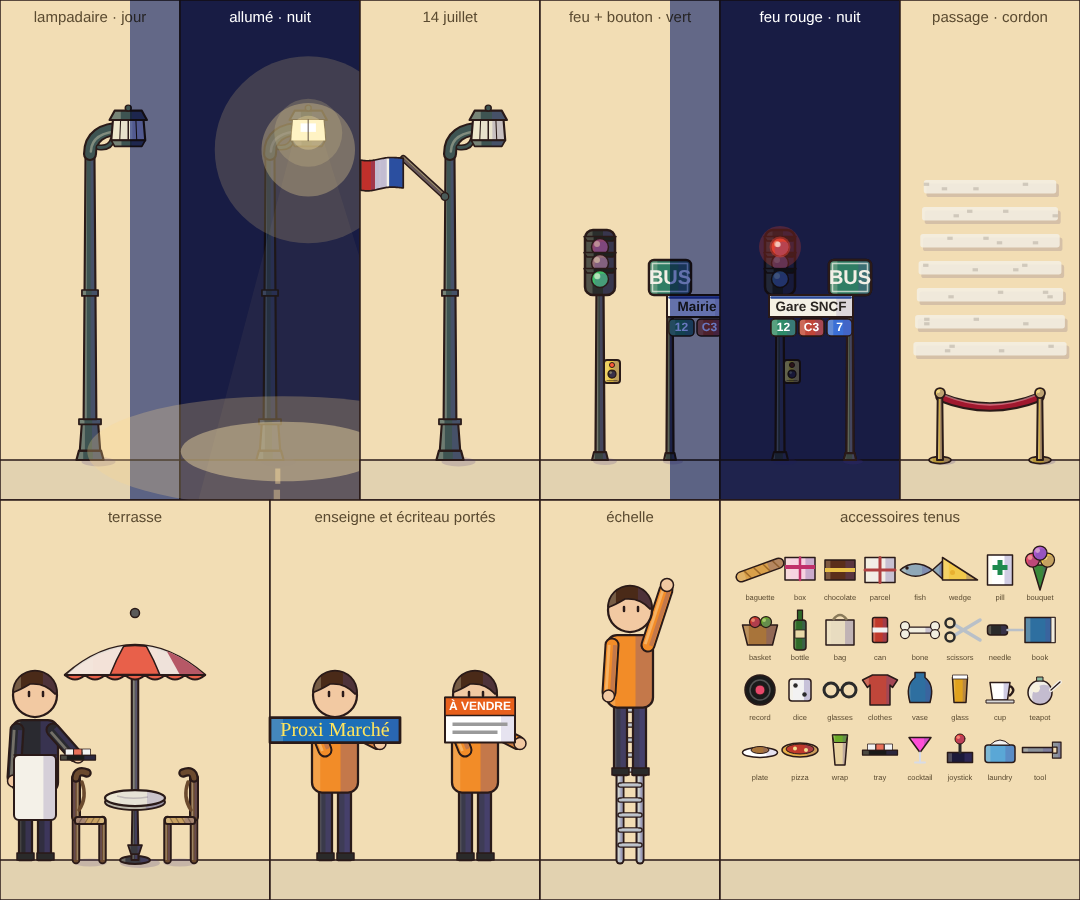
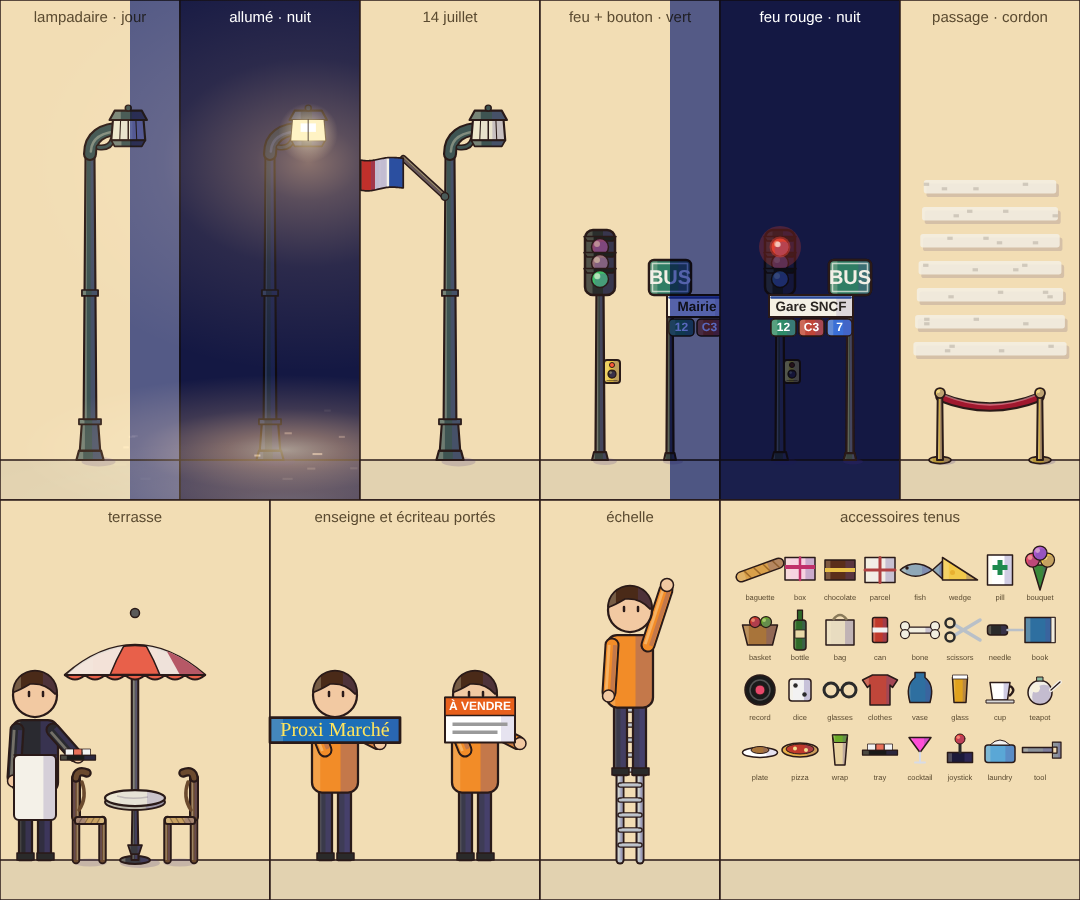
docs(bibliotheque): maquette G5 — première retouche de la lumière de nuit (Fable)
Claude-Session: https://claude.ai/code/session_013ZuXsaoNr127mvw7YX8a2o

diff --git a/docs/superpowers/maquettes/g5-fetes/index.html b/docs/superpowers/maquettes/g5-fetes/index.html
@@ -18,6 +18,9 @@ canvas{display:block;border-radius:6px;box-shadow:0 2px 10px #0003;background:#d
 <h3>3 · Zoom ×4 <span class="tag">jour puis nuit, 270 px de rue</span></h3>
 <canvas id="zoom-day"></canvas><br>
 <canvas id="zoom-night"></canvas>
+<p class="leg">Lumière de nuit : après le bleu nuit (multiply), chaque lumière est <b>ajoutée</b> en mode <code>screen</code> par des dégradés radiaux doux (cœur ambré d'incandescence, bord fondu) : halo du mur autour de la lanterne, flaque en perspective au pied du mât (trottoir puis chaussée), étincelles sur les joints des dalles et des pavés, bloom serré du verre. Les acteurs proches reçoivent un rehaut chaud du côté de la lampe et projettent une ombre portée à l'opposé. Vitrines et fenêtres débordent doucement sur le mur et le trottoir.</p>
+<h3>3 bis · Nuit de pluie <span class="tag">×4 · cône diffus · reflets étirés et ondulés sur les pavés mouillés · pas de feu d'artifice</span><span class="anim">animé</span></h3>
+<canvas id="night-rain"></canvas>
 
 <h3>4 · Planche mobilier de rue <span class="tag">×5 · lampadaire éteint / allumé / avec drapeau · feu et boîtier · arrêt de bus · passage · terrasse · cordon · enseigne portée · écriteau · échelle · accessoires tenus</span></h3>
 <canvas id="board-street"></canvas>
@@ -162,7 +165,6 @@ function lamp(ctx,{lit=false,pass='base',flag=false,flagT=0}={}){
  }
  if(lit&&pass==='lit'){
   // halo centré sur la lanterne (9, −77) : ghibli-night y pose déjà sa flaque ; ici seulement le verre et l'auréole proche
-  halo(ctx,9,-77,8,'#FFE6A0',0.32);
   P(ctx,[[5.4,-80],[12.6,-80],[13,-75.2],[5,-75.2]],'#FFF3C4',{lw:0,sh:0,li:0});
   ctx.fillStyle='#FFFFFF';ctx.fillRect(7.2,-79.2,3.6,2);
   L(ctx,9,-80,9,-75.2,'rgba(42,26,24,0.5)',0.35);
@@ -549,7 +551,7 @@ function santa(ctx,{landed=false,lit=true,t=0,anim=true,aboard=true,pass='base'}
   // lanterne accrochée à l'avant
   tube(ctx,11,-9,11,-12.4,0.6,IRON,{lw:0.25});P(ctx,[[9.6,-12.6],[12.4,-12.6],[12.2,-9.4],[9.8,-9.4]],lit?'#FFF3B0':'#E8E2CC',{lw:0.4,sh:lit?0:0.2,li:lit?0:0.3});R(ctx,9.4,-13.1,3.2,0.7,IRON,{lw:0.3,sh:0,li:0.2});
  }
- if(pass==='lit'&&lit){halo(ctx,11,-11,3.2,'#FFE08A',0.5);P(ctx,[[9.6,-12.6],[12.4,-12.6],[12.2,-9.4],[9.8,-9.4]],'#FFF3B0',{lw:0,sh:0,li:0});ctx.fillStyle='#FFFFFF';ctx.fillRect(10.3,-12,1.4,1.4);
+ if(pass==='lit'&&lit){ctx.save();ctx.globalCompositeOperation='screen';ctx.fillStyle=grad(ctx,11,-11,0,6,[[0,AMBER_CORE,0.8],[0.3,AMBER,0.4],[1,AMBER,0]]);ctx.beginPath();ctx.arc(11,-11,6,0,TAU);ctx.fill();ctx.restore();P(ctx,[[9.6,-12.6],[12.4,-12.6],[12.2,-9.4],[9.8,-9.4]],'#FFF3B0',{lw:0,sh:0,li:0});ctx.fillStyle='#FFFFFF';ctx.fillRect(10.3,-12,1.4,1.4);
   if(!landed)trail(ctx,t,anim,true);team.forEach(([x,y,lead])=>{if(lead){halo(ctx,x+11.4,y-4.4,3,'#FF3B3B',0.5);ball(ctx,x+11.4,y-4.4,1.1,'#FF5B5B',0)}})}
  ctx.restore()}
 // Traînée scintillante (sparkle : cercles à (−30,−9),(−40,−7),(−51,−10),(−62,−8),(−72,−9,5), clignotement 0,6..1,1 s) : étoiles et poussière d'or.
@@ -735,7 +737,7 @@ function dog(ctx,{seed=1,t=0,anim=true,leashTo=null,breed=null}={}){const rng=mu
 <script>
 // ───────────────────────── Scènes ─────────────────────────
 const Q=new URLSearchParams(location.search),FIXED_T=Q.has('t')?Number(Q.get('t')):null,ONLY=Q.get('only');
-const NIGHT_MUL='#6878C0';
+const NIGHT_MUL='#5868BE';
 function nightFilter(ctx,W,H){ctx.save();ctx.globalCompositeOperation='multiply';ctx.fillStyle=NIGHT_MUL;ctx.fillRect(-10,-10,W+20,H+20);ctx.restore()}
 function mk(id,W,H,s,cssW=1080){const c=document.getElementById(id);c.width=Math.round(W*s);c.height=Math.round(H*s);c.style.width=cssW+'px';const ctx=c.getContext('2d');ctx.scale(s,s);return ctx}
 const ANIMS=[];function anim(id,W,H,s,draw,cssW){const ctx=mk(id,W,H,s,cssW);ANIMS.push({id,ctx,W,H,draw});draw(ctx,FIXED_T??0)}
@@ -772,64 +774,124 @@ function streetBackdrop(ctx,{night=false,seed=7,behind=null}={}){const{W,H,G,CUR
  R(ctx,0,FAR,W,H-FAR,'#D8C8A8',{lw:0.5,sh:0,li:0});ctx.fillStyle='rgba(70,50,130,0.18)';ctx.fillRect(0,FAR,W,1.5);
  return items;
  function h2(h){return h}}
-// Lumière nocturne des lampadaires (reproduit GhibliNightLight, déjà livré : flaque, halo, reflets) : lanterne à (9, −77) × k.
-function nightPool(ctx,x,curb,k,u=1){const gx=x+9*k,gy=curb-77*k;ctx.fillStyle='rgba(255,220,140,0.18)';ctx.beginPath();ctx.arc(gx,gy+4*u,22*u,0,TAU);ctx.fill();ctx.fillStyle='rgba(255,230,160,0.3)';ctx.beginPath();ctx.arc(gx,gy+4*u,11*u,0,TAU);ctx.fill();
- ctx.fillStyle='rgba(255,215,140,0.05)';ctx.beginPath();ctx.moveTo(gx-3*u,gy);ctx.lineTo(gx+3*u,gy);ctx.lineTo(gx+30*u,curb+10*u);ctx.lineTo(gx-26*u,curb+10*u);ctx.fill();
- ctx.fillStyle='rgba(255,215,140,0.26)';ctx.beginPath();ctx.ellipse(x+3*u,curb-2*u,46*u,13*u,0,0,TAU);ctx.fill();ctx.fillStyle='rgba(255,230,170,0.42)';ctx.beginPath();ctx.ellipse(x+3*u,curb-2*u,24*u,7*u,0,0,TAU);ctx.fill();
- const rng=mulberry32(x*7919);for(let i=0;i<6;i++){const sx=x+3*u+(rng()-0.5)*5*u,w=(1.2+rng()*2)*u;ctx.fillStyle=`rgba(255,225,160,${0.45-i*0.05})`;ctx.fillRect(sx-w/2,curb+(2+i*5)*u,w,3.6*u)}}
+// ───────────────────────── Lumière de nuit (remplace GhibliNightLight) ─────────────────────────
+// Principe : après le multiply bleu nuit, la lumière est ajoutée en mode `screen` (elle ÉCLAIRCIT et réchauffe ce qu'elle touche,
+// la texture reste visible) avec des dégradés radiaux à décroissance douce : cœur ambré d'incandescence, bord fondu dans le bleu.
+const AMBER=[255,196,112],AMBER_CORE=[255,230,170];
+const grad=(ctx,x,y,r0,r1,stops)=>{const g=ctx.createRadialGradient(x,y,r0,x,y,r1);for(const[o,c,a]of stops)g.addColorStop(o,rgba(c,a));return g};
+// Flaque au sol en perspective : ellipse aplatie centrée au pied du mât (x+3), plus claire au pied, qui s'étale sur le trottoir et faiblit sur la chaussée.
+function groundPool(ctx,x,y,rx,ry,a=1){ctx.save();ctx.globalCompositeOperation='screen';ctx.translate(x,y);ctx.scale(1,ry/rx);ctx.fillStyle=grad(ctx,0,0,0,rx,[[0,AMBER_CORE,0.62*a],[0.22,AMBER,0.46*a],[0.55,AMBER,0.18*a],[1,AMBER,0]]);ctx.beginPath();ctx.arc(0,0,rx,0,TAU);ctx.fill();ctx.restore()}
+// Lumière d'un lampadaire : lanterne à (9, −77)·k. Réchauffe le mur derrière (dégradé radial autour de la lanterne, borné au mur),
+// flaque au sol, joints des pavés qui captent la lumière (étincelles `lighter` près du pied), bloom serré du verre. Pluie : cône très léger
+// et reflets étirés et ondulés sur les pavés mouillés.
+function lampLight(ctx,x,curb,k,{wallTop=-1e9,ground=curb-20,far=curb+40,rain=false,u=1,seed=1}={}){const gx=x+9*k,gy=curb-77*k,R0=58*u;
+ ctx.save();ctx.globalCompositeOperation='screen';
+ // air et mur : halo large très doux autour de la lanterne, légèrement aplati (il ne monte guère vers le ciel)
+ ctx.save();ctx.translate(gx,gy+6*u);ctx.scale(1,0.72);ctx.fillStyle=grad(ctx,0,0,0,R0,[[0,AMBER,0.5],[0.18,AMBER,0.3],[0.5,AMBER,0.1],[1,AMBER,0]]);ctx.beginPath();ctx.arc(0,0,R0,0,TAU);ctx.fill();ctx.restore();
+ // bloom serré du verre
+ ctx.fillStyle=grad(ctx,gx,gy,0,7*k,[[0,AMBER_CORE,0.9],[0.35,AMBER_CORE,0.45],[1,AMBER,0]]);ctx.beginPath();ctx.arc(gx,gy,7*k,0,TAU);ctx.fill();
+ ctx.restore();
+ // flaque : trottoir (claire) puis chaussée (plus faible et plus large)
+ groundPool(ctx,x+3*u,curb-2*u,54*u,15*u,1);groundPool(ctx,x+3*u,curb+9*u,70*u,13*u,0.45);
+ // joints des pavés et des dalles : étincelles chaudes près du pied, de moins en moins loin
+ const rng=mulberry32(seed^(x*7919|0));ctx.save();ctx.globalCompositeOperation='lighter';
+ for(let i=0;i<26;i++){const d=rng(),ang=rng()*TAU,px=x+3*u+Math.cos(ang)*d*48*u,py=curb-2*u+Math.sin(ang)*d*14*u+(py=>py)(0);const on=py<curb?1:0.55;ctx.fillStyle=rgba(AMBER_CORE,(1-d)*(1-d)*0.32*on);ctx.fillRect(px-(0.5+rng()*0.6)*u,py-0.2*u,(1+rng()*1.4)*u,0.4*u)}
+ ctx.restore();
+ if(rain){ctx.save();ctx.globalCompositeOperation='screen';
+  // cône diffus dans la pluie
+  const cg=ctx.createLinearGradient(0,gy,0,curb);cg.addColorStop(0,rgba(AMBER,0.16));cg.addColorStop(1,rgba(AMBER,0));ctx.fillStyle=cg;ctx.beginPath();ctx.moveTo(gx-4*k,gy);ctx.lineTo(gx+4*k,gy);ctx.lineTo(gx+26*u,curb);ctx.lineTo(gx-30*u,curb);ctx.closePath();ctx.fill();
+  // reflet étiré sur les pavés mouillés : rubans verticaux ondulés, du bord du trottoir vers le bas, qui s'estompent
+  const w=9*u,h=far-curb;for(let j=0;j<5;j++){const ox=(j-2)*2.6*u,ph=j*1.3;ctx.beginPath();ctx.moveTo(gx+ox-w/2,curb);for(let yy=0;yy<=h;yy+=2*u){const wig=Math.sin(yy/(3*u)+ph)*1.4*u;ctx.lineTo(gx+ox-w/2*(1-yy/h*0.5)+wig,curb+yy)}for(let yy=h;yy>=0;yy-=2*u){const wig=Math.sin(yy/(3*u)+ph+0.8)*1.4*u;ctx.lineTo(gx+ox+w/2*(1-yy/h*0.5)+wig,curb+yy)}ctx.closePath();
+   const rg=ctx.createLinearGradient(0,curb,0,far);rg.addColorStop(0,rgba(AMBER_CORE,0.22));rg.addColorStop(0.5,rgba(AMBER,0.1));rg.addColorStop(1,rgba(AMBER,0));ctx.fillStyle=rg;ctx.fill()}
+  ctx.restore()}}
+// Fenêtre allumée : vitre chaude + lueur douce qui déborde sur le mur.
+function windowLight(ctx,x,y,w,h,c,a=1,part='both'){if(part!=='fill'){ctx.save();ctx.globalCompositeOperation='screen';const cx=x+w/2,cy=y+h/2,r=Math.max(w,h)*1.6;ctx.fillStyle=grad(ctx,cx,cy,0,r,[[0,C(c),0.55*a],[0.4,C(c),0.2*a],[1,C(c),0]]);ctx.fillRect(cx-r,cy-r,2*r,2*r);ctx.restore()}if(part==='glow')return;
+ ctx.fillStyle=rgba(C(c),0.95*a);ctx.fillRect(x,y,w,h);ctx.fillStyle='rgba(42,26,24,0.35)';ctx.fillRect(x+w*0.46,y,w*0.08,h);ctx.fillRect(x,y+h*0.44,w,h*0.06)}
+// Vitrine allumée : intérieur chaud, lumière qui déborde doucement sur le trottoir (dégradé vertical) et sur la chaussée.
+function shopLight(ctx,x,y,w,h,ground,far,{c=AMBER,a=1,rain=false}={}){ctx.save();ctx.globalCompositeOperation='screen';
+ ctx.fillStyle=rgba(c,0.32*a);ctx.fillRect(x,y,w,h);ctx.save();ctx.translate(x+w/2,ground-1);ctx.scale(w/2+14,24);ctx.fillStyle=grad(ctx,0,0,0,1,[[0,c,0.4*a],[0.4,c,0.18*a],[1,c,0]]);ctx.beginPath();ctx.arc(0,0,1,0,TAU);ctx.fill();ctx.restore();
+ // lueur sur le mur autour de la vitrine
+ ctx.fillStyle=grad(ctx,x+w/2,y+h/2,w*0.3,w*0.9,[[0,c,0.14*a],[1,c,0]]);ctx.fillRect(x-w/2,y-h,2*w,3*h);
+ if(rain){const rg=ctx.createLinearGradient(0,far-20,0,far);rg.addColorStop(0,rgba(c,0.14*a));rg.addColorStop(1,rgba(c,0));ctx.fillStyle=rg;for(let k=0;k<4;k++){const sx=x+w*(0.15+k*0.23);ctx.beginPath();ctx.moveTo(sx-3,far-20);ctx.quadraticCurveTo(sx+2,far-10,sx-2,far);ctx.lineTo(sx+4,far);ctx.quadraticCurveTo(sx+6,far-10,sx+3,far-20);ctx.closePath();ctx.fill()}}
+ ctx.restore()}
+// Acteurs touchés par une lampe : ombre portée au sol À L'OPPOSÉ de la lampe (allongée, qui s'estompe, multiply) et rehaut chaud
+// (rim light) sur la face tournée vers la lampe : l'acteur est redessiné dans un canvas tampon, masqué par un dégradé (source-in),
+// puis composé en `screen`. `a` = {x, y (pieds), w, h, draw()} dans le repère courant ; `lamp` = {x: pied du mât, lx: lanterne x, ly}.
+const rimBuf=document.createElement('canvas');
+function actorShadow(ctx,a,lamp){const d=a.x-lamp.lx,dist=Math.hypot(d,a.y-lamp.ly);if(Math.abs(d)>70)return;const dir=d>=0?1:-1,L=Math.min(a.h*1.1,a.h*0.35+Math.abs(d)*0.5),str=0.5*Math.max(0,1-dist/80);
+ ctx.save();ctx.globalCompositeOperation='multiply';const g=ctx.createLinearGradient(a.x,a.y,a.x+dir*L,a.y);g.addColorStop(0,`rgba(40,36,90,${str*1.3})`);g.addColorStop(1,'rgba(40,36,90,0)');ctx.fillStyle=g;
+ ctx.beginPath();ctx.moveTo(a.x-a.w*0.45,a.y-0.5);ctx.lineTo(a.x+a.w*0.45,a.y-0.5);ctx.lineTo(a.x+dir*L+a.w*0.2,a.y+3.2);ctx.lineTo(a.x+dir*L-a.w*0.2,a.y+3.2);ctx.closePath();ctx.fill();ctx.restore()}
+function actorRim(ctx,a,lamp){const d=a.x-lamp.lx,dist=Math.hypot(d,a.y-a.h/2-lamp.ly);if(dist>95)return;const str=0.75*Math.max(0,1-dist/95);
+ const tf=ctx.getTransform(),cv=ctx.canvas;if(rimBuf.width!==cv.width||rimBuf.height!==cv.height){rimBuf.width=cv.width;rimBuf.height=cv.height}
+ const o=rimBuf.getContext('2d');o.setTransform(tf);const bx=a.x-a.w,by=a.y-a.h-2,bw=2*a.w,bh=a.h+3;o.save();o.beginPath();o.rect(bx,by,bw,bh);o.clip();o.clearRect(bx,by,bw,bh);a.draw(o);
+ o.globalCompositeOperation='source-in';const side=d>=0?-1:1;const g=o.createLinearGradient(a.x+side*a.w*0.5,0,a.x-side*a.w*0.35,0);g.addColorStop(0,rgba(AMBER_CORE,str));g.addColorStop(0.5,rgba(AMBER,str*0.35));g.addColorStop(1,rgba(AMBER,0));o.fillStyle=g;o.fillRect(bx,by,bw,bh);o.restore();
+ // recopie du tampon (rectangle en pixels de l'appareil)
+ const px=bx*tf.a+tf.e,py=by*tf.d+tf.f,pw=bw*tf.a,ph=bh*tf.d;ctx.save();ctx.setTransform(1,0,0,1,0,0);ctx.globalCompositeOperation='screen';ctx.drawImage(rimBuf,px,py,pw,ph,px,py,pw,ph);ctx.restore()}
+function relightActors(ctx,actors,lamps){for(const a of actors){let best=null,bd=1e9;for(const l of lamps){const dd=Math.abs(a.x-l.lx);if(dd<bd){bd=dd;best=l}}if(!best)continue;actorShadow(ctx,a,best);actorRim(ctx,a,best)}}
+// Compatibilité (planche 4) : flaque simple.
+function nightPool(ctx,x,curb,k,u=1){lampLight(ctx,x,curb,k,{u,ground:curb-20,far:curb+40})}
 
 // La rue : lampadaires (tous les ~170), feu à bouton + passage, arrêt de bus, terrasse, chien promené, grue au loin, montgolfière et avion.
-const LAMP_XS=[62,232,402,572,742,912,1082],KL=0.85,KP=0.55,LIGHT_X=640;street.cache=new Map();
-function street(ctx,{night=false,t=0,x0=0,s=1,flags=false}={}){const{W,H,G,CURB,FAR}=ST;ctx.save();ctx.scale(s,s);ctx.translate(-x0,0);
- // grue au loin (derrière les immeubles), à l'échelle réduite
+const LAMP_XS=[62,232,402,572,742,912,1082],KL=0.85,KP=0.55,LIGHT_X=640;street.cache=new Map();street.light=new Map();
+function street(ctx,{night=false,t=0,x0=0,s=1,flags=false,rain=false}={}){const{W,H,G,CURB,FAR}=ST;ctx.save();ctx.scale(s,s);ctx.translate(-x0,0);
  // décor fixe mis en cache (une image par jour/nuit × fenêtre × échelle) : seuls les éléments vivants sont redessinés à chaque image
  const tf=ctx.getTransform(),key=`${night}|${x0}|${tf.a}`;let bg=street.cache.get(key);
  if(!bg){const off=document.createElement('canvas');off.width=ctx.canvas.width;off.height=ctx.canvas.height;const o=off.getContext('2d');o.setTransform(tf);
-  const items=streetBackdrop(o,{night,behind:()=>{o.save();o.translate(330,G-24);o.scale(0.45,0.45);crane(o,0,false);o.restore()}});bg={off,items};street.cache.set(key,bg)}
+  const items=streetBackdrop(o,{night,behind:()=>{o.save();o.translate(330,G-24);o.scale(0.45,0.45);crane(o,0,false);o.restore()}});const wr=mulberry32(5),lit=[];for(const it of items){if(it.k==='win'&&wr()<0.4)lit.push({k:'win',x:it.x,y:it.y,c:pick(['#FFE4A0','#FFC878','#FFF2D0','#9AB8FF'],wr)});if(it.k==='shop'&&wr()<0.75)lit.push(it)}bg={off,items,lit};street.cache.set(key,bg)}
  ctx.save();ctx.setTransform(1,0,0,1,0,0);ctx.drawImage(bg.off,0,0);ctx.restore();const items=bg.items;
+ // acteurs (dessinés de jour, puis ré-éclairés la nuit : ombre portée et rehaut)
+ const actors=[];const actor=(x,y,w,h,draw)=>{actors.push({x,y,w,h,draw});draw(ctx)};
  // ciel : montgolfière, avion
  ctx.save();ctx.translate(840,30);ctx.scale(0.55,0.55);balloonEvt(ctx,'#3B6FD6','#F2C94C');ctx.restore();
  ctx.save();ctx.translate(150+(t*14)%300,14);ctx.scale(0.5,0.5);plane(ctx,{night});ctx.restore();
  // mobilier : lampadaires, feu, arrêt, passage
  crosswalk(ctx,LIGHT_X,CURB+2,FAR-2,1);
  for(const x of LAMP_XS){ctx.save();ctx.translate(x,CURB);ctx.scale(KL,KL);lamp(ctx,{lit:night,flag:flags,flagT:t});ctx.restore()}
- ctx.save();ctx.translate(LIGHT_X-19,CURB+1);ctx.scale(-1,1);trafficPole(ctx,{color:night?'red':'green',pressed:!night});ctx.restore();
- ctx.save();ctx.translate(LIGHT_X+19,FAR);trafficPole(ctx,{color:'green'});ctx.restore();
- ctx.save();ctx.translate(470,CURB+1);busStop(ctx,{name:'Mairie',served:'far'});ctx.restore();
- ctx.save();ctx.translate(790,FAR);busStop(ctx,{name:'Gare SNCF',served:'near'});ctx.restore();
+ actor(LIGHT_X-19,CURB+1,8,46,c=>{c.save();c.translate(LIGHT_X-19,CURB+1);c.scale(-1,1);trafficPole(c,{color:night?'red':'green',pressed:!night});c.restore()});
+ actor(LIGHT_X+19,FAR,8,46,c=>{c.save();c.translate(LIGHT_X+19,FAR);trafficPole(c,{color:'green'});c.restore()});
+ actor(470,CURB+1,14,40,c=>{c.save();c.translate(470,CURB+1);busStop(c,{name:'Mairie',served:'far'});c.restore()});
+ actor(790,FAR,14,40,c=>{c.save();c.translate(790,FAR);busStop(c,{name:'Gare SNCF',served:'near'});c.restore()});
  // terrasse devant le café (2e local) : guéridon + deux chaises + parasol, à l'échelle du passant
- const cafe=items.filter(i=>i.k==='shop')[1];if(cafe){for(const tx of[cafe.x+10,cafe.x+26]){ctx.save();ctx.translate(tx,G+14);ctx.scale(KP,KP);parasol(ctx,tx===cafe.x+10?'#E8604A':'#2E8B6A');chair(ctx,-1);table(ctx);chair(ctx,1);ctx.restore()}
-  ctx.save();ctx.translate(cafe.x+18,G+14.5);ctx.scale(KP,KP);figure(ctx,{top:'#2A2A30',bottom:'#2A2A30'},{arms:'hold'});apron(ctx);ctx.save();ctx.translate(8.6,-21);accessory(ctx,'tray');ctx.restore();ctx.restore()}
+ const cafe=items.filter(i=>i.k==='shop')[1];if(cafe){for(const tx of[cafe.x+10,cafe.x+26])actor(tx,G+14,16,28,c=>{c.save();c.translate(tx,G+14);c.scale(KP,KP);parasol(c,tx===cafe.x+10?'#E8604A':'#2E8B6A');chair(c,-1);table(c);chair(c,1);c.restore()});
+  actor(cafe.x+18,G+14.5,6,19,c=>{c.save();c.translate(cafe.x+18,G+14.5);c.scale(KP,KP);figure(c,{top:'#2A2A30',bottom:'#2A2A30'},{arms:'hold'});apron(c);c.save();c.translate(8.6,-21);accessory(c,'tray');c.restore();c.restore()})}
  // cordon devant Le Palace (10e local)
  const club=items.filter(i=>i.k==='shop')[9];if(club){cordon(ctx,club.x+club.w-14,club.x+club.w-4,G+10,KP)}
  // passants-repères et promeneur avec chien (événement du trottoir, échelle du passant)
  const walkers=[[120,'#4A7AB8'],[300,'#C0463A'],[560,'#2E8B6A'],[700,'#E0A21E'],[980,'#8A5AB8']];
- for(const[x,c]of walkers){ctx.save();ctx.translate(x,G+14);ctx.scale(KP,KP);figure(ctx,{top:c});ctx.restore()}
- ctx.save();ctx.translate(520+(t*9)%40-20,G+14);ctx.scale(KP,KP);figure(ctx,{top:'#8A5A2B',bottom:'#3A3A4A'},{arms:'hold'});ctx.translate(26,0);dog(ctx,{breed:'labrador',seed:3,t,leashTo:[-26+8.6,-20.6]});ctx.restore();
+ for(const[x,col]of walkers)actor(x,G+14,6,19,c=>{c.save();c.translate(x,G+14);c.scale(KP,KP);figure(c,{top:col});c.restore()});
+ const wx=520+(t*9)%40-20;actor(wx,G+14,6,19,c=>{c.save();c.translate(wx,G+14);c.scale(KP,KP);figure(c,{top:'#8A5A2B',bottom:'#3A3A4A'},{arms:'hold'});c.restore()});
+ actor(wx+26*KP+1,G+14,9,8,c=>{c.save();c.translate(wx,G+14);c.scale(KP,KP);c.save();c.translate(26,0);dog(c,{breed:'labrador',seed:3,t,leashTo:[-26+8.6,-20.6]});c.restore();c.restore()});
  // ouvrier sur une échelle qui change l'enseigne du 5e local
- const rec=items.filter(i=>i.k==='shop')[4];if(rec){ctx.save();ctx.translate(rec.x+8,G);ladder(ctx,30);ctx.translate(0,-14);ctx.scale(KP,KP);figure(ctx,{top:'#F28C28',bottom:'#3A3A4A'},{arms:'up'});ctx.restore();ctx.save();ctx.translate(rec.x+rec.w/2+6,G);ctx.scale(KP,KP);figure(ctx,{top:'#F28C28',bottom:'#3A3A4A'},{arms:'carry'});ctx.translate(0,-23.5);carriedSign(ctx,rec.w/KP*0.6,'#1C6FB8','#FFE45C','Proxi Marché');ctx.restore()}
+ const rec=items.filter(i=>i.k==='shop')[4];if(rec){actor(rec.x+8,G,6,32,c=>{c.save();c.translate(rec.x+8,G);ladder(c,30);c.translate(0,-14);c.scale(KP,KP);figure(c,{top:'#F28C28',bottom:'#3A3A4A'},{arms:'up'});c.restore()});actor(rec.x+rec.w/2+6,G,12,19,c=>{c.save();c.translate(rec.x+rec.w/2+6,G);c.scale(KP,KP);figure(c,{top:'#F28C28',bottom:'#3A3A4A'},{arms:'carry'});c.translate(0,-23.5);carriedSign(c,rec.w/KP*0.6,'#1C6FB8','#FFE45C','Proxi Marché');c.restore()})}
  if(night){nightFilter(ctx,W+x0,H);
-  // fenêtres allumées, vitrines, lanternes, feux, feux d'artifice, lueur d'appartement
-  const wr=mulberry32(5);for(const it of items){if(it.k==='win'&&wr()<0.4){const c=pick(['#FFE4A0','#FFC878','#FFF2D0','#9AB8FF'],wr);ctx.fillStyle=rgba(C(c),0.35);ctx.fillRect(it.x-1.5,it.y-1.5,8,11);ctx.fillStyle=rgba(C(c));ctx.fillRect(it.x,it.y,5,8);ctx.fillStyle='rgba(42,26,24,0.35)';ctx.fillRect(it.x+2.3,it.y,0.4,8);ctx.fillRect(it.x,it.y+3.5,5,0.4)}
-   if(it.k==='shop'&&wr()<0.75){ctx.fillStyle='rgba(255,200,110,0.35)';ctx.fillRect(it.x+2,G-20,it.w-4,19);ctx.fillStyle='rgba(255,215,140,0.26)';ctx.beginPath();ctx.moveTo(it.x,G);ctx.lineTo(it.x+it.w,G);ctx.lineTo(it.x+it.w+6,G+12);ctx.lineTo(it.x-6,G+12);ctx.fill()}}
+  if(rain){ctx.save();ctx.globalCompositeOperation='multiply';ctx.fillStyle='rgba(120,130,190,0.6)';ctx.fillRect(0,CURB,W,H-CURB);ctx.restore()} // sol mouillé, plus sombre
+  // lumières fixes (fenêtres, vitrines, lampadaires) mises en cache dans une image transparente, composée en `screen`
+  const lamps=LAMP_XS.map(x=>({x,lx:x+9*KL,ly:CURB-77*KL}));const lkey=`${x0}|${tf.a}|${rain}`;let lc=street.light.get(lkey);
+  if(!lc){lc=document.createElement('canvas');lc.width=ctx.canvas.width;lc.height=ctx.canvas.height;const o=lc.getContext('2d');o.setTransform(tf);
+   for(const it of bg.lit){if(it.k==='win')windowLight(o,it.x,it.y,5,8,it.c,1,'glow');else shopLight(o,it.x+2,G-20,it.w-4,19,G,FAR,{rain})}
+   for(const l of lamps)lampLight(o,l.x,CURB,KL,{wallTop:G-60,ground:G,far:FAR,rain});street.light.set(lkey,lc)}
+  ctx.save();ctx.setTransform(1,0,0,1,0,0);ctx.globalCompositeOperation='screen';ctx.drawImage(lc,0,0);ctx.restore();
+  for(const it of bg.lit)if(it.k==='win')windowLight(ctx,it.x,it.y,5,8,it.c,1,'fill');
   const ap=items.filter(i=>i.k==='win')[7];if(ap){ctx.save();ctx.translate(ap.x,ap.y+1);apartmentGlow(ctx);ctx.restore()}
-  for(const x of LAMP_XS){nightPool(ctx,x,CURB,KL);ctx.save();ctx.translate(x,CURB);ctx.scale(KL,KL);lamp(ctx,{lit:true,pass:'lit'});ctx.restore()}
+  for(const l of lamps){ctx.save();ctx.translate(l.x,CURB);ctx.scale(KL,KL);lamp(ctx,{lit:true,pass:'lit'});ctx.restore()}
+  relightActors(ctx,actors,lamps);
   ctx.save();ctx.translate(LIGHT_X-19,CURB+1);ctx.scale(-1,1);trafficPole(ctx,{color:'red',pass:'lit'});ctx.restore();ctx.save();ctx.translate(LIGHT_X+19,FAR);trafficPole(ctx,{color:'green',pass:'lit'});ctx.restore();
   ctx.save();ctx.translate(150+(t*14)%300,14);ctx.scale(0.5,0.5);plane(ctx,{night:true,t,pass:'lit'});ctx.restore();
-  ctx.save();ctx.translate(700,20);ctx.scale(0.45,0.45);fireworks(ctx,t,true);ctx.restore();
-  // étoiles
-  const sr=mulberry32(11);for(let k=0;k<40;k++){const x=sr()*W,y=sr()*45,a=0.4+0.6*Math.abs(Math.sin(t*2+k));ctx.fillStyle=`rgba(255,250,230,${a})`;ctx.fillRect(x,y,0.9,0.9)}
+  if(!rain){ctx.save();ctx.translate(700,20);ctx.scale(0.45,0.45);fireworks(ctx,t,true);ctx.restore()}
+  // étoiles (ciel dégagé) ou pluie
+  if(!rain){const sr=mulberry32(11);for(let k=0;k<40;k++){const x=sr()*W,y=sr()*45,a=0.4+0.6*Math.abs(Math.sin(t*2+k));ctx.fillStyle=`rgba(255,250,230,${a})`;ctx.fillRect(x,y,0.9,0.9)}}
+  else{const rr=mulberry32(13);ctx.strokeStyle='rgba(220,230,255,0.22)';ctx.lineWidth=0.4;for(let k=0;k<220;k++){const x=rr()*W,y=(rr()*H+t*90)%H;ctx.beginPath();ctx.moveTo(x,y);ctx.lineTo(x-1.2,y+5);ctx.stroke()}}
  }
  ctx.restore()}
 {const{W,H}=ST;anim('street-day',W,H,2,(ctx,t)=>street(ctx,{night:false,t}));anim('street-night',W,H,2,(ctx,t)=>street(ctx,{night:true,t}));
- anim('zoom-day',270,H,4,(ctx,t)=>street(ctx,{night:false,t,x0:400}));anim('zoom-night',270,H,4,(ctx,t)=>street(ctx,{night:true,t,x0:400}))}
+ anim('zoom-day',270,H,4,(ctx,t)=>street(ctx,{night:false,t,x0:400}));anim('zoom-night',270,H,4,(ctx,t)=>street(ctx,{night:true,t,x0:400}));anim('night-rain',270,H,4,(ctx,t)=>street(ctx,{night:true,t,x0:400,rain:true}))}
 
 // ───────────────────────── 4. Planche mobilier de rue (×5) ─────────────────────────
 {const s=5,W=216,H=180;const ctx=mk('board-street',W,H,s);
  const cell=(x,y,w,h,label,night,draw)=>{ctx.save();ctx.translate(x,y);R(ctx,0,0,w,h,night?'#3A3A5A':'#F2DDB4',{lw:0.3,sh:0,li:0});R(ctx,0,h-8,w,8,night?'#4A4A66':'#E2D2B0',{lw:0.3,sh:0,li:0});ctx.save();ctx.translate(w/2,h-8);draw('base');ctx.restore();if(night){nightFilter(ctx,w,h);ctx.save();ctx.translate(w/2,h-8);draw('lit');ctx.restore()}text(ctx,label,w/2,3.5,3,night?'#FFFFFF':'#5A4A30');ctx.restore()};
  ctx.fillStyle='#E9DCC4';ctx.fillRect(0,0,W,H);
  cell(0,0,36,100,'lampadaire · jour',false,p=>{ctx.scale(0.85,0.85);lamp(ctx,{pass:p})});
- cell(36,0,36,100,'allumé · nuit',true,p=>{ctx.scale(0.85,0.85);if(p==='lit')nightPool(ctx,0,0,1,1);lamp(ctx,{lit:true,pass:p})});
+ cell(36,0,36,100,'allumé · nuit',true,p=>{if(p==='lit')lampLight(ctx,0,0,0.85,{wallTop:-92,ground:-6,far:8});ctx.scale(0.85,0.85);lamp(ctx,{lit:true,pass:p})});
  cell(72,0,36,100,'14 juillet',false,p=>{ctx.scale(0.85,0.85);lamp(ctx,{pass:p,flag:true,flagT:0.3})});
  cell(108,0,36,100,'feu + bouton · vert',false,p=>{ctx.translate(-6,0);trafficPole(ctx,{color:'green',pressed:true,pass:p});ctx.translate(14,0);busStop(ctx,{name:'Mairie',served:'far'})});
  cell(144,0,36,100,'feu rouge · nuit',true,p=>{ctx.translate(-6,0);trafficPole(ctx,{color:'red',pressed:false,pass:p});ctx.translate(14,0);busStop(ctx,{name:'Gare SNCF',served:'near'})});
@@ -843,7 +905,7 @@ function street(ctx,{night=false,t=0,x0=0,s=1,flags=false}={}){const{W,H,G,CURB,
 // ───────────────────────── 5. Fête de la musique ─────────────────────────
 function musicScene(ctx,{night=false,t=0}={}){const W=432,H=120,G=100,kp=0.55;
  ctx.fillStyle=night?'#8EA6D8':'#BFE0F4';ctx.fillRect(0,0,W,H);R(ctx,0,0,W,G-24,'#F2DDB4',{lw:0.3,sh:0,li:0});R(ctx,0,G-24,W,24,'#E2D2B0',{lw:0.3,sh:0,li:0});ctx.fillStyle='#8A8494';ctx.fillRect(0,G,W,H-G);
- const fig=(x,y,o,a,k=kp,extra)=>{ctx.save();ctx.translate(x,y);ctx.scale(k,k);figure(ctx,o,{arms:a});if(extra)extra();ctx.restore()};
+ const actors=[];const fig=(x,y,o,a,k=kp,extra)=>{const d=c=>{c.save();c.translate(x,y);c.scale(k,k);figure(c,o,{arms:a});if(extra)extra(c);c.restore()};actors.push({x,y,w:6*k/0.55,h:33*k,draw:d});d(ctx)};
  const lamp1=40;ctx.save();ctx.translate(lamp1,G);ctx.scale(0.85,0.85);lamp(ctx,{lit:night});ctx.restore();
  // scène (base = curb − 1) ; musiciens-repères sur le plancher (STAGE_STAND = −9,5), échelle 0,55 × 0,8 = 0,44
  ctx.save();ctx.translate(130,G-1);stageFrame(ctx);stageFloor(ctx);
@@ -852,16 +914,16 @@ function musicScene(ctx,{night=false,t=0}={}){const W=432,H=120,G=100,kp=0.55;
  // barrières devant la scène (y = curb + 4, échelle 0,85 × 1,5)
  for(const x of[70,100,160,190]){ctx.save();ctx.translate(x,G+4);ctx.scale(1.275,1.275);barrier(ctx);ctx.restore()}
  // stand de bière sur la chaussée (base = curb + 18) : serveur derrière, client avec gobelet
- ctx.save();ctx.translate(300,G+18);standAwning(ctx);fig(-8,-12,{top:'#F4F1E8'},'hold');standCounter(ctx,1);fig(36,0,{top:'#4A7AB8'},'hold',kp,()=>{ctx.translate(8.6,-21);beerCup(ctx,0,2)});ctx.restore();
+ ctx.save();ctx.translate(300,G+18);standAwning(ctx);fig(-8,-12,{top:'#F4F1E8'},'hold');standCounter(ctx,1);fig(36,0,{top:'#4A7AB8'},'hold',kp,c=>{c.translate(8.6,-21);beerCup(c,0,2)});ctx.restore();
  // équipe : comptoir porté à deux (mains à −23,5 × 0,55 = −13), tronçon de treillis, projecteur, toile roulée
  ctx.save();ctx.translate(395,G+10);fig(-30,0,{top:'#F28C28'},'carry');fig(30,0,{top:'#F28C28'},'carry');ctx.translate(0,-13);carriedCounter(ctx);ctx.restore();
- fig(236,G-2,{top:'#F28C28'},'carry',kp,()=>{ctx.translate(9,-23.5);heldTruss(ctx)});fig(254,G-2,{top:'#F28C28'},'carry',kp,()=>{ctx.translate(9,-23.5);heldSpot(ctx)});fig(20,G+16,{top:'#F28C28'},'carry',kp,()=>{ctx.translate(9,-23.5);heldRoll(ctx)});
+ fig(236,G-2,{top:'#F28C28'},'carry',kp,c=>{c.translate(9,-23.5);heldTruss(c)});fig(254,G-2,{top:'#F28C28'},'carry',kp,c=>{c.translate(9,-23.5);heldSpot(c)});fig(20,G+16,{top:'#F28C28'},'carry',kp,c=>{c.translate(9,-23.5);heldRoll(c)});
  // spectateurs
  [[80,'#4A7AB8'],[112,'#C0463A'],[150,'#E0A21E'],[176,'#8A5AB8']].forEach(([x,c],i)=>fig(x,G+12,{top:c},i%2?'up':'swing'));
- if(night){nightFilter(ctx,W,H);nightPool(ctx,lamp1,G,0.85);ctx.save();ctx.translate(lamp1,G);ctx.scale(0.85,0.85);lamp(ctx,{lit:true,pass:'lit'});ctx.restore();
+ if(night){nightFilter(ctx,W,H);lampLight(ctx,lamp1,G,0.85,{wallTop:G-70,ground:G-24,far:H});ctx.save();ctx.translate(lamp1,G);ctx.scale(0.85,0.85);lamp(ctx,{lit:true,pass:'lit'});ctx.restore();relightActors(ctx,actors,[{x:lamp1,lx:lamp1+9*0.85,ly:G-77*0.85}]);
   ctx.save();ctx.translate(130,G-1);stageBeams(ctx,t);stageSpots(ctx,{lit:true,pass:'lit'});ctx.restore();
   // guirlande du stand
-  ctx.save();ctx.translate(300,G+18);for(let x=-28;x<=28;x+=7){halo(ctx,x,-29,2.2,pick(['#FFE27A','#FF8A6A','#8AE0FF'],mulberry32(x+50)),0.5);disc(ctx,x,-29,0.7,'#FFF8D8',0)}ctx.restore()}}
+  ctx.save();ctx.translate(300,G+18);ctx.globalCompositeOperation='screen';for(let x=-28;x<=28;x+=7){const c=C(pick(['#FFE27A','#FF8A6A','#8AE0FF'],mulberry32(x+50)));ctx.fillStyle=grad(ctx,x,-29,0,4,[[0,c,0.9],[0.3,c,0.4],[1,c,0]]);ctx.beginPath();ctx.arc(x,-29,4,0,TAU);ctx.fill();disc(ctx,x,-29,0.7,'#FFF8D8',0)}ctx.restore()}}
 anim('music-day',432,120,2.5,(ctx,t)=>musicScene(ctx,{night:false,t}));anim('music-night',432,120,2.5,(ctx,t)=>musicScene(ctx,{night:true,t}));
 
 // ───────────────────────── 6. 14 juillet ─────────────────────────
@@ -900,11 +962,11 @@ function santaScene(ctx,t=0){const W=360,H=90;
  ctx.save();ctx.translate(30,36);ctx.scale(1.6,1.6);santaSack(ctx);ctx.restore();text(ctx,'hotte ×1,6',30,40,3,'#FFFFFF');
  nightFilter(ctx,W,H);
  const sr=mulberry32(21);for(let k=0;k<70;k++){const x=sr()*W,y=sr()*60,a=0.4+0.6*Math.abs(Math.sin(t*1.5+k));ctx.fillStyle=`rgba(255,250,230,${a})`;ctx.fillRect(x,y,0.9,0.9)}
- ball(ctx,330,14,7,'#FFF6D0',0);ctx.fillStyle='rgba(255,246,208,0.25)';ctx.beginPath();ctx.arc(330,14,11,0,TAU);ctx.fill();
+ ctx.save();ctx.globalCompositeOperation='screen';ctx.fillStyle=grad(ctx,330,14,6,20,[[0,hex('#FFF6D0'),0.5],[1,hex('#FFF6D0'),0]]);ctx.beginPath();ctx.arc(330,14,20,0,TAU);ctx.fill();ctx.restore();ball(ctx,330,14,7,'#FFF6D0',0);
  ctx.save();ctx.translate(120,28+Math.sin(t*1.3)*1.5);santa(ctx,{landed:false,lit:true,t,pass:'lit'});ctx.restore();
  ctx.save();ctx.translate(290,44);santa(ctx,{landed:true,lit:true,t,pass:'lit'});ctx.restore();
  // fenêtres allumées
- ctx.fillStyle='#FFE4A0';for(const[x,gy,w,ty]of roofs){for(let wx=x+8;wx<x+w-8;wx+=14){ctx.fillStyle='rgba(255,228,160,0.3)';ctx.fillRect(wx-1.5,ty+13.5,8,11);ctx.fillStyle='#FFE4A0';ctx.fillRect(wx,ty+15,5,8)}}}
+ for(const[x,gy,w,ty]of roofs){for(let wx=x+8;wx<x+w-8;wx+=14)windowLight(ctx,wx,ty+15,5,8,'#FFE4A0')}}
 anim('santa',360,90,3,(ctx,t)=>santaScene(ctx,t));
 
 // ───────────────────────── 8. Installations ─────────────────────────
